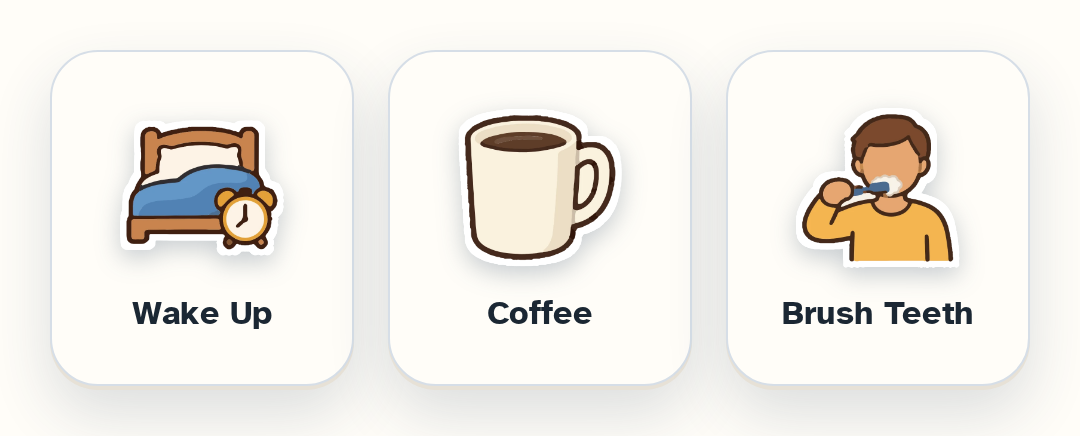
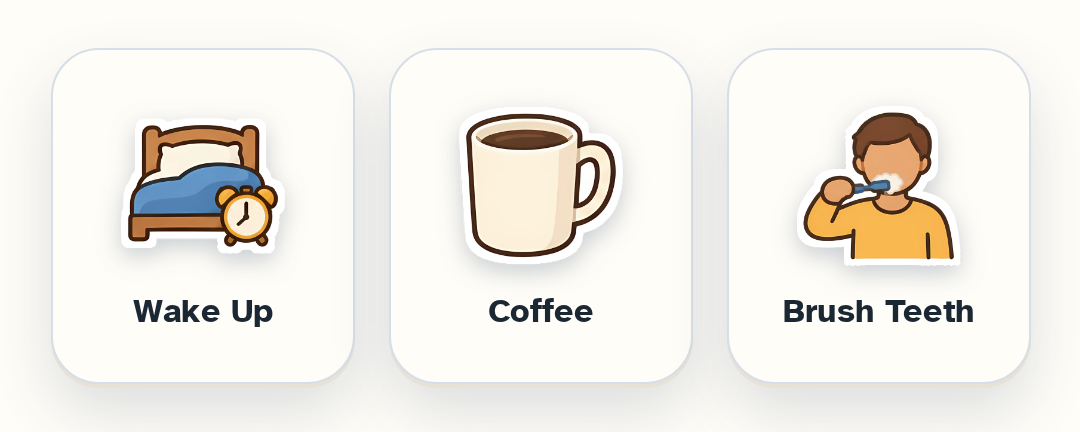
Rename Break It Down to Chart Steps (#58)
Home page, support, privacy policy, terms (dated October 7) and the
welcome email pictures, which also get the cleaned card pictures.

Claude-Session: https://claude.ai/code/session_01DcAsRdVhoUAcaA1hRJqdpX

diff --git a/privacy.html b/privacy.html
@@ -16,7 +16,7 @@
 <body>
 <main>
 <header><a href="/" aria-label="Boone home"><img src="/pages-boone.png" alt=""></a><h1>Boone Privacy Policy</h1></header>
-<p class="updated">Last updated: October 5, 2026</p>
+<p class="updated">Last updated: October 7, 2026</p>
 
 <p>Boone is a visual schedule app: picture cards for your day, one at a time. We built it so your day stays on your phone, not on our computers. This policy explains the small amount of information that does leave your phone, why, and what happens to it.</p>
 <p>Boone is run by Colleen MacCallum ("we", "us"), in Naples, Florida, United States. Questions: <a href="mailto:support@getboone.app">support@getboone.app</a>.</p>
@@ -25,7 +25,7 @@
 <h2>The short version</h2>
 <ul>
 <li>Your cards, your schedule and everything you make in Boone stay on your phone. You don't make an account.</li>
-<li>The only thing that leaves your phone by your choice is the name of a card when you tap <strong>Break It Down</strong>. It goes to our small server and to Anthropic's Claude to suggest steps. We ask you before the first time.</li>
+<li>The only thing that leaves your phone by your choice is the name of a card when you tap <strong>Chart Steps</strong>. It goes to our small server and to Anthropic's Claude to suggest steps. We ask you before the first time.</li>
 <li>If Boone crashes, a crash report goes to us with your card text removed.</li>
 <li>No ads. No selling or sharing your information. No tracking across other apps or websites.</li>
 </ul>
@@ -37,8 +37,8 @@
 <p><strong>Backup files.</strong> In Settings you can <strong>Save a backup file</strong> and put it wherever you choose (for example Files, iCloud Drive or Google Drive). That file contains your cards and progress. It's yours: we never receive it. Anyone you give it to could read it.</p>
 
 <h2>2. What leaves your phone</h2>
-<h3>Break It Down (only when you tap it)</h3>
-<p>When you tap <strong>Break It Down</strong> on a card that doesn't already have ready-made steps, Boone sends:</p>
+<h3>Chart Steps (only when you tap it)</h3>
+<p>When you tap <strong>Chart Steps</strong> on a card that doesn't already have ready-made steps, Boone sends:</p>
 <ul>
 <li>the card's name, exactly as written (up to 200 characters),</li>
 <li>the level of detail you chose (fewer, normal or more steps),</li>
@@ -46,8 +46,8 @@
 <li>a random code Boone made the first time you opened it.</li>
 </ul>
 <p>These go to our server, which asks <strong>Claude</strong>, an AI model made by <strong>Anthropic</strong>, to suggest steps. The steps come back to your phone and are saved only there. Ready-made cards that already have steps send nothing.</p>
-<p><strong>We ask first.</strong> Before your first Break It Down, Boone shows a note saying that the card's name goes to Claude, made by Anthropic. Nothing is sent until you tap <strong>Ask the helper</strong>. If you tap <strong>Not now</strong>, nothing is sent and the rest of Boone works the same.</p>
-<p><strong>The random code</strong> isn't linked to your name, email, phone number or advertising ID. We use it only to count your free breakdowns each day and to stop misuse of the service.</p>
+<p><strong>We ask first.</strong> Before your first Chart Steps, Boone shows a note saying that the card's name goes to Claude, made by Anthropic. Nothing is sent until you tap <strong>Ask the helper</strong>. If you tap <strong>Not now</strong>, nothing is sent and the rest of Boone works the same.</p>
+<p><strong>The random code</strong> isn't linked to your name, email, phone number or advertising ID. We use it only to count your free uses of Chart Steps each day and to stop misuse of the service.</p>
 <p><strong>What our server keeps.</strong></p>
 <ul>
 <li>We never save or log the card name you send.</li>
@@ -56,11 +56,11 @@
 </ul>
 <p><strong>What Anthropic does with it.</strong> Anthropic processes the card name only to write the suggested steps for us. Under Anthropic's commercial terms, Anthropic doesn't use this content to train its models. Anthropic deletes it within 30 days, though it may keep content longer if its safety systems flag it. See <a href="https://privacy.claude.com">privacy.claude.com</a>.</p>
 <p><strong>Please don't put private details in card names you break down,</strong> like full names, addresses, account numbers or medical details. "Call the pharmacy" works just as well as the pharmacy's name and your prescription.</p>
-<p><strong>If a card sounds like you're going through something really hard,</strong> Boone doesn't send steps. It shows a kind message with a crisis line (in the US, call or text 988). We don't save, flag or report this, and it doesn't count as one of your free breakdowns.</p>
+<p><strong>If a card sounds like you're going through something really hard,</strong> Boone doesn't send steps. It shows a kind message with a crisis line (in the US, call or text 988). We don't save, flag or report this, and it doesn't count as one of your free uses of Chart Steps.</p>
 <p><strong>Report these steps.</strong> If suggested steps are wrong or upsetting, you can tap <strong>Report these steps</strong>. Your email app opens with a message to us holding the card's name and the suggested steps, with room for your reason. You see all of it, and nothing is sent unless you send the email yourself.</p>
 
 <h3>Crash reports</h3>
-<p>If Boone hits an error, it sends a crash report to <strong>Sentry</strong>, a service that helps us find and fix bugs. A report includes things like your phone model, system version, Boone's version, the screen you were on and the technical error. <strong>Boone removes the text of your cards, steps and notes before a report is sent.</strong> Crash reports aren't linked to your name or the random Break It Down code, and they are deleted within 90 days.</p>
+<p>If Boone hits an error, it sends a crash report to <strong>Sentry</strong>, a service that helps us find and fix bugs. A report includes things like your phone model, system version, Boone's version, the screen you were on and the technical error. <strong>Boone removes the text of your cards, steps and notes before a report is sent.</strong> Crash reports aren't linked to your name or the random Chart Steps code, and they are deleted within 90 days.</p>
 
 <h3>Send feedback</h3>
 <p>If you tap <strong>Send feedback</strong>, your email app opens with a message to us. We receive whatever you choose to write and your email address, and use them only to reply and improve Boone. We keep feedback emails until the matter is resolved, and no longer than 2 years.</p>
@@ -77,12 +77,12 @@
 <h2>4. Health information (Washington, Nevada and similar laws)</h2>
 <p>Some state laws, including Washington's My Health My Data Act and Nevada's consumer health data law, cover "consumer health data" very broadly. A card name like "Take medication" or "Therapy appointment" could count. This section is our Consumer Health Data Privacy Policy.</p>
 <ul>
-<li><strong>What we collect:</strong> only card names you choose to send with Break It Down. Boone doesn't ask about diagnoses, conditions or medications. Using Boone doesn't tell us that you have any condition.</li>
-<li><strong>Where it comes from:</strong> you, when you tap Break It Down.</li>
+<li><strong>What we collect:</strong> only card names you choose to send with Chart Steps. Boone doesn't ask about diagnoses, conditions or medications. Using Boone doesn't tell us that you have any condition.</li>
+<li><strong>Where it comes from:</strong> you, when you tap Chart Steps.</li>
 <li><strong>Why:</strong> only to suggest steps for that card.</li>
 <li><strong>Who receives it:</strong> Anthropic, as our service provider, only to write the steps. Our hosting and database providers handle the request but don't keep the card text. We don't sell it or share it for any other purpose.</li>
-<li><strong>Your consent:</strong> we ask before the first Break It Down, and you can say Not now.</li>
-<li><strong>Your rights:</strong> you can ask what consumer health data we have about you, ask us to delete it, and withdraw consent by not using Break It Down. Because we don't keep card text, there's normally nothing for us to hand over or delete, but write to <a href="mailto:support@getboone.app">support@getboone.app</a> and we'll confirm within 45 days. If we turn down a request, you can appeal by replying to our answer, and if you're unhappy with the result you can contact your state Attorney General.</li>
+<li><strong>Your consent:</strong> we ask before the first Chart Steps, and you can say Not now.</li>
+<li><strong>Your rights:</strong> you can ask what consumer health data we have about you, ask us to delete it, and withdraw consent by not using Chart Steps. Because we don't keep card text, there's normally nothing for us to hand over or delete, but write to <a href="mailto:support@getboone.app">support@getboone.app</a> and we'll confirm within 45 days. If we turn down a request, you can appeal by replying to our answer, and if you're unhappy with the result you can contact your state Attorney General.</li>
 </ul>
 
 <h2>5. Your choices and deleting your data</h2>
@@ -90,7 +90,7 @@
 <li><strong>Delete everything Boone saved on your phone:</strong> delete the app. Copies inside your phone's backup are removed under Apple's or Google's backup rules. Backup files you saved yourself stay where you put them until you delete them.</li>
 <li><strong>Clear today:</strong> "Start fresh" clears today's cards.</li>
 <li><strong>Data on our side:</strong> we don't keep your cards, so there's nothing to delete for them. Daily-limit counts delete themselves within 2 days, and crash reports within 90 days. Email <a href="mailto:support@getboone.app">support@getboone.app</a> for anything else and we'll answer within 45 days.</li>
-<li><strong>Turn things off:</strong> tap Not now on the helper note, or simply don't use Break It Down.</li>
+<li><strong>Turn things off:</strong> tap Not now on the helper note, or simply don't use Chart Steps.</li>
 </ul>
 <p><strong>US state privacy rights.</strong> Depending on your state, you may have the right to know, access, correct or delete personal information, and to opt out of sale, sharing or targeted advertising. We don't do the last three. To use any right, email <a href="mailto:support@getboone.app">support@getboone.app</a>. We won't treat you differently for asking. You can use an authorized agent; we may ask for proof they act for you.</p>
 

diff --git a/index.html b/index.html
@@ -19,7 +19,7 @@
 <link rel="icon" href="favicon.png">
 <link rel="preload" href="fonts/7b114e24f7.woff2" as="font" type="font/woff2" crossorigin>
 <link rel="stylesheet" href="fonts.css?v=1791385613">
-<link rel="stylesheet" href="site.css?v=1791404455">
+<link rel="stylesheet" href="site.css?v=1791405168">
 <script type="application/ld+json">
 [
  {
@@ -97,12 +97,12 @@
 <section data-e="e23" data-c="e23" class="breakdown" id="breakdown">
   <div data-e="e24" data-c="e24" class="section-words">
     <h2 data-e="e25">For the cards you keep putting off.</h2>
-    <p data-e="e91" class="sub">Break It Down splits a big task into small steps.</p>
+    <p data-e="e91" class="sub">Chart Steps splits a big task into small steps.</p>
   </div>
   <div data-e="e27" class="split" id="split">
     <div class="card big">
       <span class="callout" id="buoy-callout" aria-hidden="true">Tap me</span>
-      <button class="buoy-btn" id="buoy" type="button" aria-label="Break It Down" aria-expanded="true" aria-controls="steps"><svg class="buoy" aria-hidden="true" viewBox="-3 -3 30 30" xmlns="http://www.w3.org/2000/svg"><g opacity=".25" transform="translate(0 .8)"><path d="M4.929 4.929A10 10 0 0 1 19.071 4.929L15.182 8.818A4.5 4.5 0 0 0 8.818 8.818Z" fill="#24405C" stroke="#24405C" stroke-width="4" stroke-linejoin="round"/><path d="M19.071 4.929A10 10 0 0 1 19.071 19.071L15.182 15.182A4.5 4.5 0 0 0 15.182 8.818Z" fill="#24405C" stroke="#24405C" stroke-width="4" stroke-linejoin="round"/><path d="M19.071 19.071A10 10 0 0 1 4.929 19.071L8.818 15.182A4.5 4.5 0 0 0 15.182 15.182Z" fill="#24405C" stroke="#24405C" stroke-width="4" stroke-linejoin="round"/><path d="M4.929 19.071A10 10 0 0 1 4.929 4.929L8.818 8.818A4.5 4.5 0 0 0 8.818 15.182Z" fill="#24405C" stroke="#24405C" stroke-width="4" stroke-linejoin="round"/></g><path d="M4.929 4.929A10 10 0 0 1 19.071 4.929L15.182 8.818A4.5 4.5 0 0 0 8.818 8.818Z" fill="#fff" stroke="#fff" stroke-width="4" stroke-linejoin="round"/><path d="M19.071 4.929A10 10 0 0 1 19.071 19.071L15.182 15.182A4.5 4.5 0 0 0 15.182 8.818Z" fill="#fff" stroke="#fff" stroke-width="4" stroke-linejoin="round"/><path d="M19.071 19.071A10 10 0 0 1 4.929 19.071L8.818 15.182A4.5 4.5 0 0 0 15.182 15.182Z" fill="#fff" stroke="#fff" stroke-width="4" stroke-linejoin="round"/><path d="M4.929 19.071A10 10 0 0 1 4.929 4.929L8.818 8.818A4.5 4.5 0 0 0 8.818 15.182Z" fill="#fff" stroke="#fff" stroke-width="4" stroke-linejoin="round"/><path d="M4.929 4.929A10 10 0 0 1 19.071 4.929L15.182 8.818A4.5 4.5 0 0 0 8.818 8.818Z" fill="#F2AE3A" stroke="#1B2733" stroke-width="1.4" stroke-linejoin="round"/><path d="M19.071 4.929A10 10 0 0 1 19.071 19.071L15.182 15.182A4.5 4.5 0 0 0 15.182 8.818Z" fill="#3F6496" stroke="#1B2733" stroke-width="1.4" stroke-linejoin="round"/><path d="M19.071 19.071A10 10 0 0 1 4.929 19.071L8.818 15.182A4.5 4.5 0 0 0 15.182 15.182Z" fill="#F2AE3A" stroke="#1B2733" stroke-width="1.4" stroke-linejoin="round"/><path d="M4.929 19.071A10 10 0 0 1 4.929 4.929L8.818 8.818A4.5 4.5 0 0 0 8.818 15.182Z" fill="#3F6496" stroke="#1B2733" stroke-width="1.4" stroke-linejoin="round"/></svg></button>
+      <button class="buoy-btn" id="buoy" type="button" aria-label="Chart Steps" aria-expanded="true" aria-controls="steps"><svg class="buoy" aria-hidden="true" viewBox="-3 -3 30 30" xmlns="http://www.w3.org/2000/svg"><g opacity=".25" transform="translate(0 .8)"><path d="M4.929 4.929A10 10 0 0 1 19.071 4.929L15.182 8.818A4.5 4.5 0 0 0 8.818 8.818Z" fill="#24405C" stroke="#24405C" stroke-width="4" stroke-linejoin="round"/><path d="M19.071 4.929A10 10 0 0 1 19.071 19.071L15.182 15.182A4.5 4.5 0 0 0 15.182 8.818Z" fill="#24405C" stroke="#24405C" stroke-width="4" stroke-linejoin="round"/><path d="M19.071 19.071A10 10 0 0 1 4.929 19.071L8.818 15.182A4.5 4.5 0 0 0 15.182 15.182Z" fill="#24405C" stroke="#24405C" stroke-width="4" stroke-linejoin="round"/><path d="M4.929 19.071A10 10 0 0 1 4.929 4.929L8.818 8.818A4.5 4.5 0 0 0 8.818 15.182Z" fill="#24405C" stroke="#24405C" stroke-width="4" stroke-linejoin="round"/></g><path d="M4.929 4.929A10 10 0 0 1 19.071 4.929L15.182 8.818A4.5 4.5 0 0 0 8.818 8.818Z" fill="#fff" stroke="#fff" stroke-width="4" stroke-linejoin="round"/><path d="M19.071 4.929A10 10 0 0 1 19.071 19.071L15.182 15.182A4.5 4.5 0 0 0 15.182 8.818Z" fill="#fff" stroke="#fff" stroke-width="4" stroke-linejoin="round"/><path d="M19.071 19.071A10 10 0 0 1 4.929 19.071L8.818 15.182A4.5 4.5 0 0 0 15.182 15.182Z" fill="#fff" stroke="#fff" stroke-width="4" stroke-linejoin="round"/><path d="M4.929 19.071A10 10 0 0 1 4.929 4.929L8.818 8.818A4.5 4.5 0 0 0 8.818 15.182Z" fill="#fff" stroke="#fff" stroke-width="4" stroke-linejoin="round"/><path d="M4.929 4.929A10 10 0 0 1 19.071 4.929L15.182 8.818A4.5 4.5 0 0 0 8.818 8.818Z" fill="#F2AE3A" stroke="#1B2733" stroke-width="1.4" stroke-linejoin="round"/><path d="M19.071 4.929A10 10 0 0 1 19.071 19.071L15.182 15.182A4.5 4.5 0 0 0 15.182 8.818Z" fill="#3F6496" stroke="#1B2733" stroke-width="1.4" stroke-linejoin="round"/><path d="M19.071 19.071A10 10 0 0 1 4.929 19.071L8.818 15.182A4.5 4.5 0 0 0 15.182 15.182Z" fill="#F2AE3A" stroke="#1B2733" stroke-width="1.4" stroke-linejoin="round"/><path d="M4.929 19.071A10 10 0 0 1 4.929 4.929L8.818 8.818A4.5 4.5 0 0 0 8.818 15.182Z" fill="#3F6496" stroke="#1B2733" stroke-width="1.4" stroke-linejoin="round"/></svg></button>
       <img src="img/own/take-out-trash.webp" alt="" width="576" height="576" loading="lazy"><span>Take Out Trash</span>
     </div>
     <svg class="arrow" viewBox="0 0 80 40" aria-hidden="true"><path d="M4 22 C 24 6, 48 6, 70 18" fill="none" stroke="currentColor" stroke-width="3" stroke-linecap="round" stroke-dasharray="2 7"/><path d="M60 10 L71 18 L59 24" fill="none" stroke="currentColor" stroke-width="3" stroke-linecap="round" stroke-linejoin="round"/></svg>
@@ -113,7 +113,7 @@
     </div>
   </div>
   <div data-e="e28" data-c="e28" class="bd-more">
-    <p data-e="e29">That little buoy sits in the corner of every card. It's called <b>Break It Down</b>. Each step becomes its own card with its own picture, so you only ever look at the next small thing.</p>
+    <p data-e="e29">That little buoy sits in the corner of every card. It's called <b>Chart Steps</b>. Each step becomes its own card with its own picture, so you only ever look at the next small thing.</p>
     <p data-e="e30">Still too big? Tap <b>Tiny steps</b>. Too many? Tap <b>Bigger steps</b>. Change or remove any step you like. When the last one is done, the whole card counts.</p>
     <p data-e="e31" class="fine-print">Everyday cards have steps ready, even offline. For anything else, an AI helper writes the steps (it asks you first), and you get a few free every day.</p>
   </div>
@@ -215,7 +215,7 @@
   <p data-e="e86" class="fine marks">iPhone is a trademark of Apple Inc. Android is a trademark of Google LLC. The Android robot is reproduced or modified from work created and shared by Google and used according to terms described in the Creative Commons 3.0 Attribution License.</p>
 </footer>
 
-<script data-e="e80" src="site.js?v=1791404455"></script>
+<script data-e="e80" src="site.js?v=1791405168"></script>
 <script data-goatcounter="https://boone.goatcounter.com/count" async src="//gc.zgo.at/count.js"></script>
 </body>
 </html>

diff --git a/terms.html b/terms.html
@@ -16,7 +16,7 @@
 <body>
 <main>
 <header><a href="/" aria-label="Boone home"><img src="/pages-boone.png" alt=""></a><h1>Boone Terms of Use</h1></header>
-<p class="updated">Last updated: October 5, 2026</p>
+<p class="updated">Last updated: October 7, 2026</p>
 
 <p>Welcome to Boone. These terms are the agreement between you and Colleen MacCallum ("we", "us"), who makes Boone. By using Boone you agree to them. If you don't agree, please don't use Boone.</p>
 
@@ -30,16 +30,16 @@
 
 <h2>3. Your cards are yours</h2>
 <p>Everything you create in Boone (cards, notes, schedules, steps) belongs to you and stays on your phone. We don't claim any ownership of it.</p>
-<p>When you tap <strong>Break It Down</strong>, you let us send that card's name to our server and to our AI provider, only to create suggested steps for you, as described in our <a href="/privacy.html">Privacy Policy</a>. You're responsible for what you type, so please don't put other people's private information in a card you break down.</p>
+<p>When you tap <strong>Chart Steps</strong>, you let us send that card's name to our server and to our AI provider, only to create suggested steps for you, as described in our <a href="/privacy.html">Privacy Policy</a>. You're responsible for what you type, so please don't put other people's private information in a card you break down.</p>
 <p>You're responsible for keeping your own copies. Boone stores your data on your phone, in your phone's backup if you've turned it on, and in any backup file you save. If your phone is lost or reset without a backup, we can't recover your cards, because we never had them.</p>
 
-<h2>4. Break It Down: AI suggestions</h2>
-<p>Break It Down uses artificial intelligence (Claude, by Anthropic) to suggest steps.</p>
+<h2>4. Chart Steps: AI suggestions</h2>
+<p>Chart Steps uses artificial intelligence (Claude, by Anthropic) to suggest steps.</p>
 <ul>
 <li><strong>Suggestions can be wrong, incomplete or not right for you.</strong> Use your own judgment, and edit or delete any step.</li>
-<li><strong>Don't rely on Break It Down for anything to do with safety, health, medication, money or the law.</strong> It never tells you what dose of anything to take; follow your prescriber's or pharmacist's directions.</li>
+<li><strong>Don't rely on Chart Steps for anything to do with safety, health, medication, money or the law.</strong> It never tells you what dose of anything to take; follow your prescriber's or pharmacist's directions.</li>
 <li>If steps are wrong or upsetting, tap <strong>Report these steps</strong> so we can improve them.</li>
-<li>Boone includes 5 free breakdowns a day. We may change the number, pause Break It Down, or change the AI provider, for example to keep costs fair or to stop misuse.</li>
+<li>Boone includes 5 free uses of Chart Steps a day. We may change the number, pause Chart Steps, or change the AI provider, for example to keep costs fair or to stop misuse.</li>
 </ul>
 
 <h2>5. Using Boone fairly</h2>
@@ -47,10 +47,10 @@
 <ul>
 <li>try to get around the daily limit, send automated requests to our server, or use it for anything except the Boone app;</li>
 <li>try to break, overload, copy or reverse-engineer Boone or its server, or take its pictures, stickers or Boone's artwork out of the app;</li>
-<li>use Break It Down to try to get harmful content, or to harm anyone;</li>
+<li>use Chart Steps to try to get harmful content, or to harm anyone;</li>
 <li>break any law while using Boone.</li>
 </ul>
-<p>We may block access to Break It Down from a phone or address that's misusing it.</p>
+<p>We may block access to Chart Steps from a phone or address that's misusing it.</p>
 
 <h2>6. Stickers, presents and other fun things</h2>
 <p>Stickers, presents, edges and similar features are for fun. They have no cash value, can't be sold or traded for money, and aren't prizes. Their rules (how often presents appear, which stickers they hold) may change over time, but we won't take away stickers you've already collected because of a rule change. Nothing random is ever sold.</p>
@@ -60,7 +60,7 @@
 
 <h2>8. Changes and ending</h2>
 <p>We may update Boone, add or remove features, or stop offering it. We may update these terms; we'll change the date above and, for important changes, tell you in the app. If you keep using Boone after a change, the new terms apply.</p>
-<p>You can stop using Boone any time by deleting it. We may end your access to Break It Down or other online features if you break these terms.</p>
+<p>You can stop using Boone any time by deleting it. We may end your access to Chart Steps or other online features if you break these terms.</p>
 
 <h2>9. No guarantees</h2>
 <p>Boone is provided <strong>"as is" and "as available."</strong> We work hard on it, but to the extent the law allows, we don't promise it'll always work, be error-free, keep your data safe from loss on your phone, or that AI suggestions will be accurate or suitable. Some states don't allow some of these limits, so they may not all apply to you.</p>

diff --git a/support.html b/support.html
@@ -4,10 +4,10 @@
 <meta charset="utf-8">
 <meta name="viewport" content="width=device-width, initial-scale=1">
 <title>Boone Support</title>
-<meta name="description" content="Help with Boone, the visual to-do list app: Break It Down, moving to a new phone, and how to reach us.">
+<meta name="description" content="Help with Boone, the visual to-do list app: Chart Steps, moving to a new phone, and how to reach us.">
 <link rel="canonical" href="https://getboone.app/support.html">
 <meta property="og:title" content="Boone Support">
-<meta property="og:description" content="Help with Boone, the visual to-do list app: Break It Down, moving to a new phone, and how to reach us.">
+<meta property="og:description" content="Help with Boone, the visual to-do list app: Chart Steps, moving to a new phone, and how to reach us.">
 <meta property="og:image" content="https://getboone.app/img/share.png">
 <meta property="og:url" content="https://getboone.app/support.html">
 <meta name="twitter:card" content="summary_large_image">
@@ -28,7 +28,7 @@
 
 <h2>Common questions</h2>
 
-<h3>How many times can I use Break It Down?</h3>
+<h3>How many times can I use Chart Steps?</h3>
 <p>5 times a day for free. Your free uses come back when your day starts again. Cards with ready-made steps don't use any.</p>
 
 <h3>The steps were wrong or upsetting.</h3>

diff --git a/site.js b/site.js
@@ -1,4 +1,4 @@
-// The little card stack in the hero, Break It Down, the stickers, Boone's night shift, and the email sign-up.
+// The little card stack in the hero, Chart Steps, the stickers, Boone's night shift, and the email sign-up.
 
 // A refresh starts at the top, not wherever the page was left (Colleen, 2026-10-05).
 if ('scrollRestoration' in history) history.scrollRestoration = 'manual';
@@ -100,7 +100,7 @@ signup.addEventListener('submit', async (event) => {
   button.disabled = false;
 });
 
-// Break It Down starts folded; the buoy opens the steps and folds them back.
+// Chart Steps starts folded; the buoy opens the steps and folds them back.
 document.documentElement.classList.add('js');
 const split = document.getElementById('split');
 const buoy = document.getElementById('buoy');

diff --git a/site.css b/site.css
@@ -96,7 +96,7 @@ body::before {
 .note b { font: 700 19px/1.2 var(--sans); color: var(--navy); }
 .note i { font: 400 15px/1.4 var(--sans); font-style: normal; color: var(--muted); }
 
-/* Break It Down */
+/* Chart Steps */
 .breakdown, .stickers { max-width: 1120px; margin: 0 auto; padding: 88px 20px; }
 .section-words { max-width: 560px; }
 .breakdown .section-words { text-align: center; margin: 0 auto 48px; }
